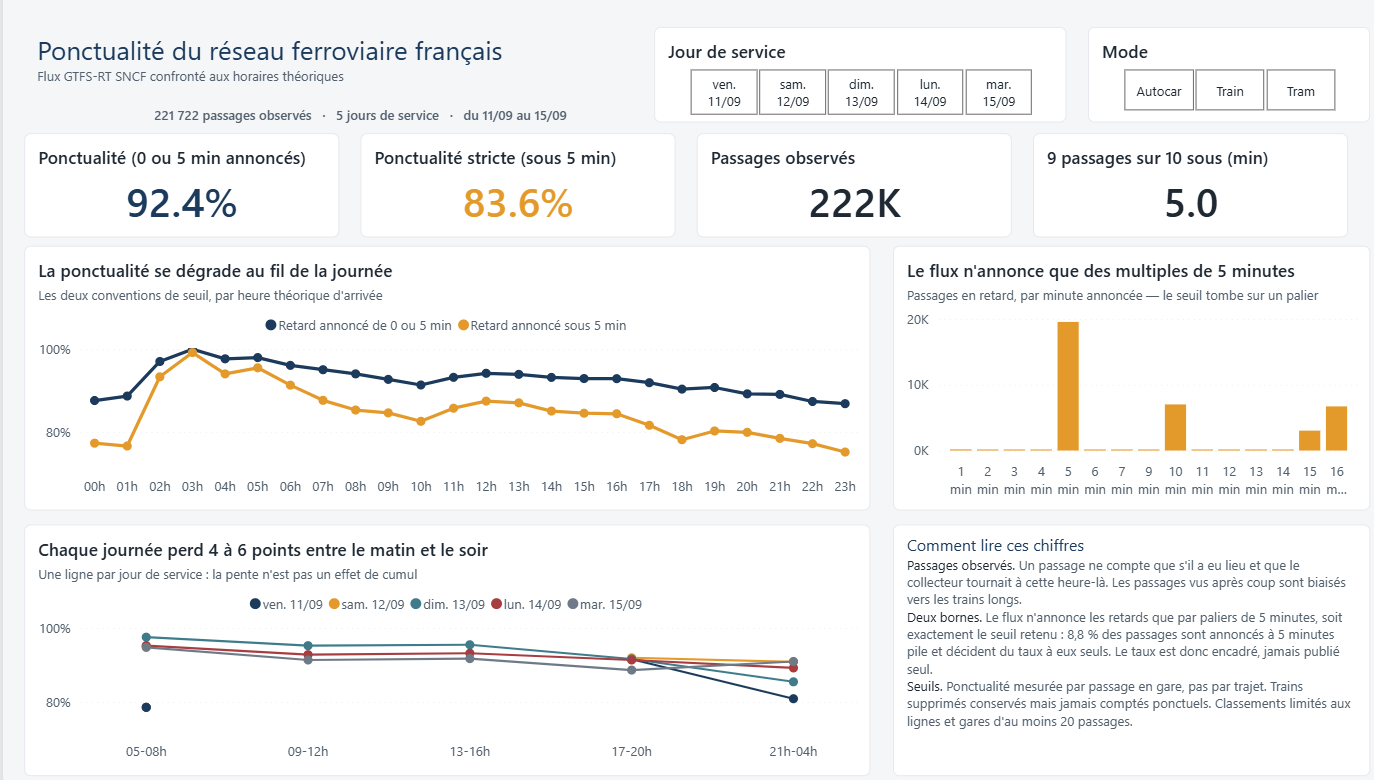
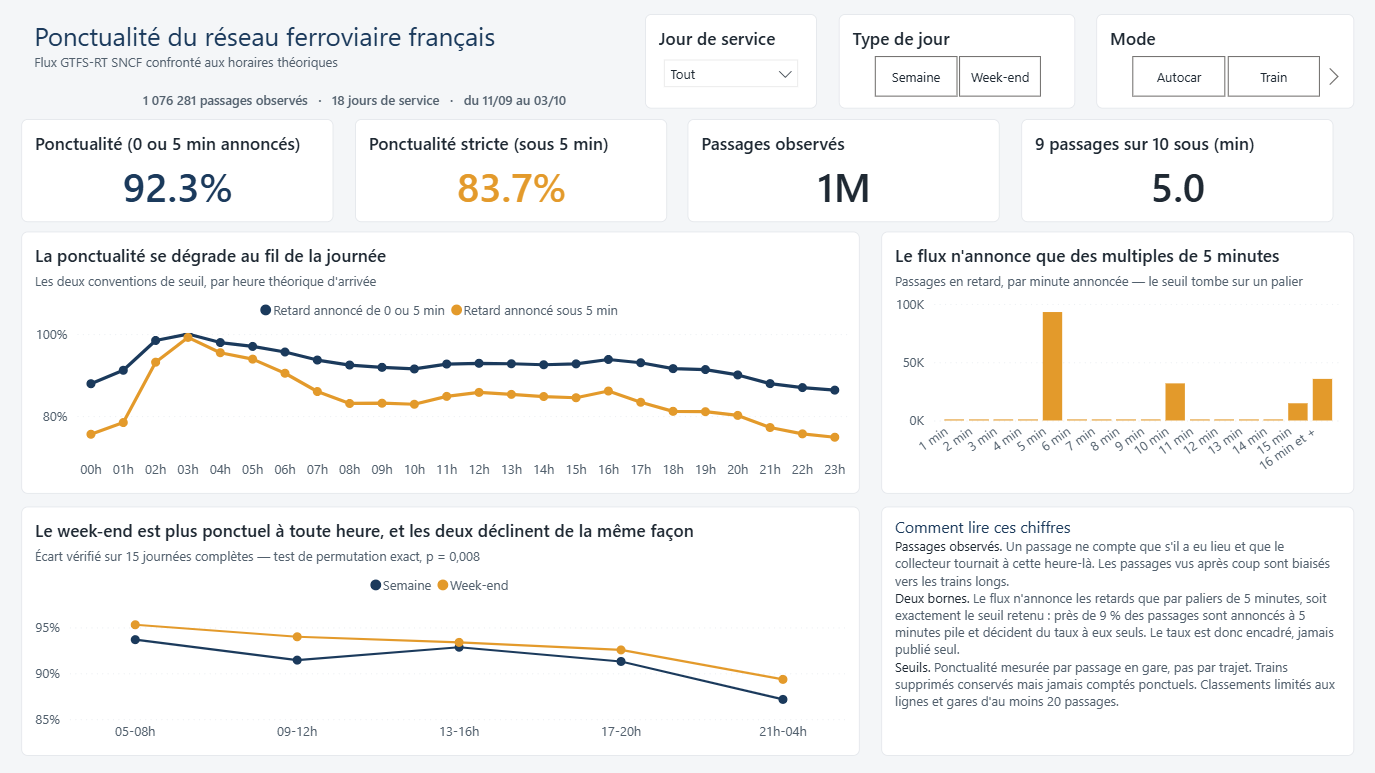
Show the eighteen-day report in the README
The three screenshots still showed the first five days: 222K calls, 92.4% and
a chart drawing one line per day. They now show what the repository builds today,
1,076,281 observed calls over eighteen days at 92.3% and 83.7%.

Two adjustments came out of looking at the result. The weekday and weekend chart
used the 70 to 100% axis of the hourly curve, which flattened a 1.2 point gap
into two lines that nearly touched; it now spans 85 to 97%, where the gap and the
evening decline are both visible. And the reading guide said 8.8% of calls sit on
the five-minute step, a figure measured on 15 September that has since become
8.65%. It now says "close to 9%", which stays true as the data grows, rather than
a number that quietly goes stale.

diff --git a/powerbi/build_report.py b/powerbi/build_report.py
@@ -248,9 +248,9 @@ def page_vue():
             "padding": [{"properties": {"top": litt(0), "bottom": litt(0), "left": litt(0), "right": litt(0)}}],
         },
     ))
-    v.append(segment("seg-jour", "fact_passage", "Jour", "Jour de service", 600, 14, 200, 88, "jour", liste_deroulante=True))
-    v.append(segment("seg-type", "fact_passage", "Type de jour", "Type de jour", 820, 14, 220, 88, "type"))
-    v.append(segment("seg-mode", "dim_route", "mode", "Mode", 1060, 14, 200, 88, "mode"))
+    v.append(segment("seg-jour", "fact_passage", "Jour", "Jour de service", 600, 14, 160, 88, "jour", liste_deroulante=True))
+    v.append(segment("seg-type", "fact_passage", "Type de jour", "Type de jour", 780, 14, 220, 88, "type"))
+    v.append(segment("seg-mode", "dim_route", "mode", "Mode", 1020, 14, 240, 88, "mode"))
 
     cartes = [
         ("Taux ponctualite observe", "Ponctualité (0 ou 5 min annoncés)", BLEU),
@@ -296,7 +296,7 @@ def page_vue():
     ))
 
     objets_jour = {}
-    objets_jour.update(axe_pourcentage(0.70, 1.0))
+    objets_jour.update(axe_pourcentage(0.85, 0.97))
     objets_jour.update(legende())
     objets_jour["lineStyles"] = [{"properties": {"strokeWidth": litt(2), "showMarker": litt(True)}}]
     v.append(visuel(
@@ -317,7 +317,7 @@ def page_vue():
         paragraphe([("Passages observés. ", {"taille": "9pt", "gras": "600"}),
                     ("Un passage ne compte que s'il a eu lieu et que le collecteur tournait à cette heure-là. Les passages vus après coup sont biaisés vers les trains longs.", {"taille": "9pt", "couleur": GRIS})], espace_avant=6),
         paragraphe([("Deux bornes. ", {"taille": "9pt", "gras": "600"}),
-                    ("Le flux n'annonce les retards que par paliers de 5 minutes, soit exactement le seuil retenu : 8,8 % des passages sont annoncés à 5 minutes pile et décident du taux à eux seuls. Le taux est donc encadré, jamais publié seul.", {"taille": "9pt", "couleur": GRIS})], espace_avant=6),
+                    ("Le flux n'annonce les retards que par paliers de 5 minutes, soit exactement le seuil retenu : près de 9 % des passages sont annoncés à 5 minutes pile et décident du taux à eux seuls. Le taux est donc encadré, jamais publié seul.", {"taille": "9pt", "couleur": GRIS})], espace_avant=6),
         paragraphe([("Seuils. ", {"taille": "9pt", "gras": "600"}),
                     ("Ponctualité mesurée par passage en gare, pas par trajet. Trains supprimés conservés mais jamais comptés ponctuels. Classements limités aux lignes et gares d'au moins 20 passages.", {"taille": "9pt", "couleur": GRIS})], espace_avant=6),
     ], fond="#FFFFFF"))
@@ -331,9 +331,9 @@ def page_lignes():
         paragraphe([("Où la ponctualité décroche", {"taille": "18pt", "gras": "600", "couleur": BLEU})]),
         paragraphe([("Lignes et gares d'au moins 20 passages observés  ·  tout est croisé : cliquez sur une barre", {"taille": "9pt", "couleur": GRIS})]),
     ]))
-    v.append(segment("seg-jour2", "fact_passage", "Jour", "Jour de service", 600, 14, 200, 88, "jour", liste_deroulante=True))
-    v.append(segment("seg-type2", "fact_passage", "Type de jour", "Type de jour", 820, 14, 220, 88, "type"))
-    v.append(segment("seg-mode2", "dim_route", "mode", "Mode", 1060, 14, 200, 88, "mode"))
+    v.append(segment("seg-jour2", "fact_passage", "Jour", "Jour de service", 600, 14, 160, 88, "jour", liste_deroulante=True))
+    v.append(segment("seg-type2", "fact_passage", "Type de jour", "Type de jour", 780, 14, 220, 88, "type"))
+    v.append(segment("seg-mode2", "dim_route", "mode", "Mode", 1020, 14, 240, 88, "mode"))
 
     objets_barres = {
         "categoryAxis": [{"properties": {"showAxisTitle": litt(False), "labelColor": couleur(ENCRE), "fontSize": litt(9)}}],
@@ -409,8 +409,8 @@ def page_methode():
         paragraphe([("Ce que le chiffre ne dit pas tout seul", {"taille": "18pt", "gras": "600", "couleur": BLEU})]),
         paragraphe([("Trois corrections appliquées aux données avant toute publication", {"taille": "9pt", "couleur": GRIS})]),
     ]))
-    v.append(segment("seg-jour3", "fact_passage", "Jour", "Jour de service", 820, 14, 200, 88, "jour", liste_deroulante=True))
-    v.append(segment("seg-type3", "fact_passage", "Type de jour", "Type de jour", 1040, 14, 220, 88, "type"))
+    v.append(segment("seg-jour3", "fact_passage", "Jour", "Jour de service", 760, 14, 160, 88, "jour", liste_deroulante=True))
+    v.append(segment("seg-type3", "fact_passage", "Type de jour", "Type de jour", 940, 14, 320, 88, "type"))
 
     v.append(carte("ecart", "Ecart de convention (pts)", "Écart entre les deux conventions (pts)", 20, 112, 290, 96, AMBRE))
     v.append(carte("part-obs", "Part observee", "Passages retenus dans le taux", 330, 112, 290, 96, BLEU))

diff --git a/docs/powerbi.md b/docs/powerbi.md
@@ -67,12 +67,12 @@ Le flux SNCF n'annonce les retards que par paliers de 5 minutes, soit exactement
 le seuil de ponctualité (journal du 15/09). Le rapport publie donc deux mesures
 côte à côte, jamais l'une sans l'autre :
 
-| Mesure | Définition | Valeur au 15/09 |
+| Mesure | Définition | Valeur au 03/10 |
 |---|---|---|
-| `Taux ponctualite observe` | retard annoncé de 0 ou 5 minutes | 92,4 % |
-| `Taux ponctualite strict` | retard annoncé sous 5 minutes | 83,6 % |
+| `Taux ponctualite observe` | retard annoncé de 0 ou 5 minutes | 92,3 % |
+| `Taux ponctualite strict` | retard annoncé sous 5 minutes | 83,7 % |
 
-`Ecart de convention (pts)` affiche la différence, 8,8 points, qui ne mesure
+`Ecart de convention (pts)` affiche la différence, 8,6 points, qui ne mesure
 aucun train : seulement le sort du palier de 5 minutes.
 
 ### Une seule mesure porte toutes les règles de population

diff --git a/README.md b/README.md
@@ -19,8 +19,9 @@ les visuels se croisent : cliquer sur une ligne filtre le reste de la page.
 
 La première page met le taux entre ses deux bornes et donne, juste à côté, la
 raison de cet encadrement : le flux n'annonce les retards que par paliers de
-5 minutes. La courbe horaire est doublée d'une lecture jour par jour, parce
-qu'une courbe cumulée avait déjà menti une fois (journal du 12/09).
+5 minutes. La courbe horaire est doublée d'une comparaison semaine / week-end,
+dont l'écart a été soumis à un test exact avant d'être affiché (journal du
+03/10).
 
 ![Lignes et gares les moins ponctuelles](docs/images/powerbi-2-lignes-gares.png)
 
